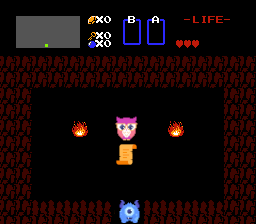
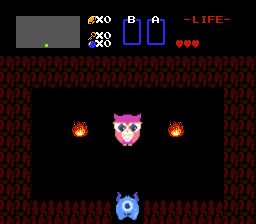
Add the sbom during the conversation

Changed region(s): [[0.4375, 0.5, 0.5625, 0.75], [0.4375, 0.8438, 0.5625, 1.0]]

diff --git a/src/js/Game.js b/src/js/Game.js
@@ -697,6 +697,8 @@ class JsPacman extends Game {
             var theText = "IT'S AN SBOM";
             document.getElementById('syft-2').innerText = theText;
 
+            document.getElementById('sbom-img').style.visibility = "visible";
+
             this._introStep = 3;
 
         } else if (this._introStep == 3) {
@@ -788,15 +790,15 @@ class JsPacman extends Game {
             </div>
             <div class="start-p1" style="display: none">PLAYER ONE</div>
             <div class="start-ready" style="display: none">READY!</div>
-            <div class="game-over" style="display: none">GAME OVER</div>
+            <div class="game-over" style="display: none">YOU GOT PWNT!</div>
             <div class="sound-status on" style="display: none"><span class="wrap">SOUND: <span class="on">ON</span><span class="off">OFF</span></span></div>
             <div class="paused" style="display: none"><span class="wrap">PAUSED</span></div>
             <div class="splash">
+                <img id="sbom-img" class="sbom" src="img/sbom.png" style="width:50px;height:50px;">
                 <p class="nerd" id="old-man-text"><br><br>
                     <span id="syft-1"> </span><br>
                     <span id="syft-2"> </span><br>
                     <span id="syft-3"> </span><br>
-                    <span></span> <br>
                     <span></span> <br>
                     <span></span> <br>
                     <span></span> <br>

diff --git a/src/styles.css b/src/styles.css
@@ -109,6 +109,13 @@ body {
     color: #FCB644;
 }
 
+.js-pacman-playground img.sbom {
+    position: absolute;
+    visibility: hidden;
+    top: 65%;
+    left: 44%;
+}
+
 .js-pacman-playground .splash p.nerd {
     position: absolute;
     top: 33.15%;

diff --git a/src/index.js b/src/index.js
@@ -2,6 +2,7 @@
 import './img/characters.png';
 import './img/maze.png';
 import './img/misc.png';
+import './img/sbom.png';
 import './img/pills.png';
 // Audio
 import './audio/back.mp3';
